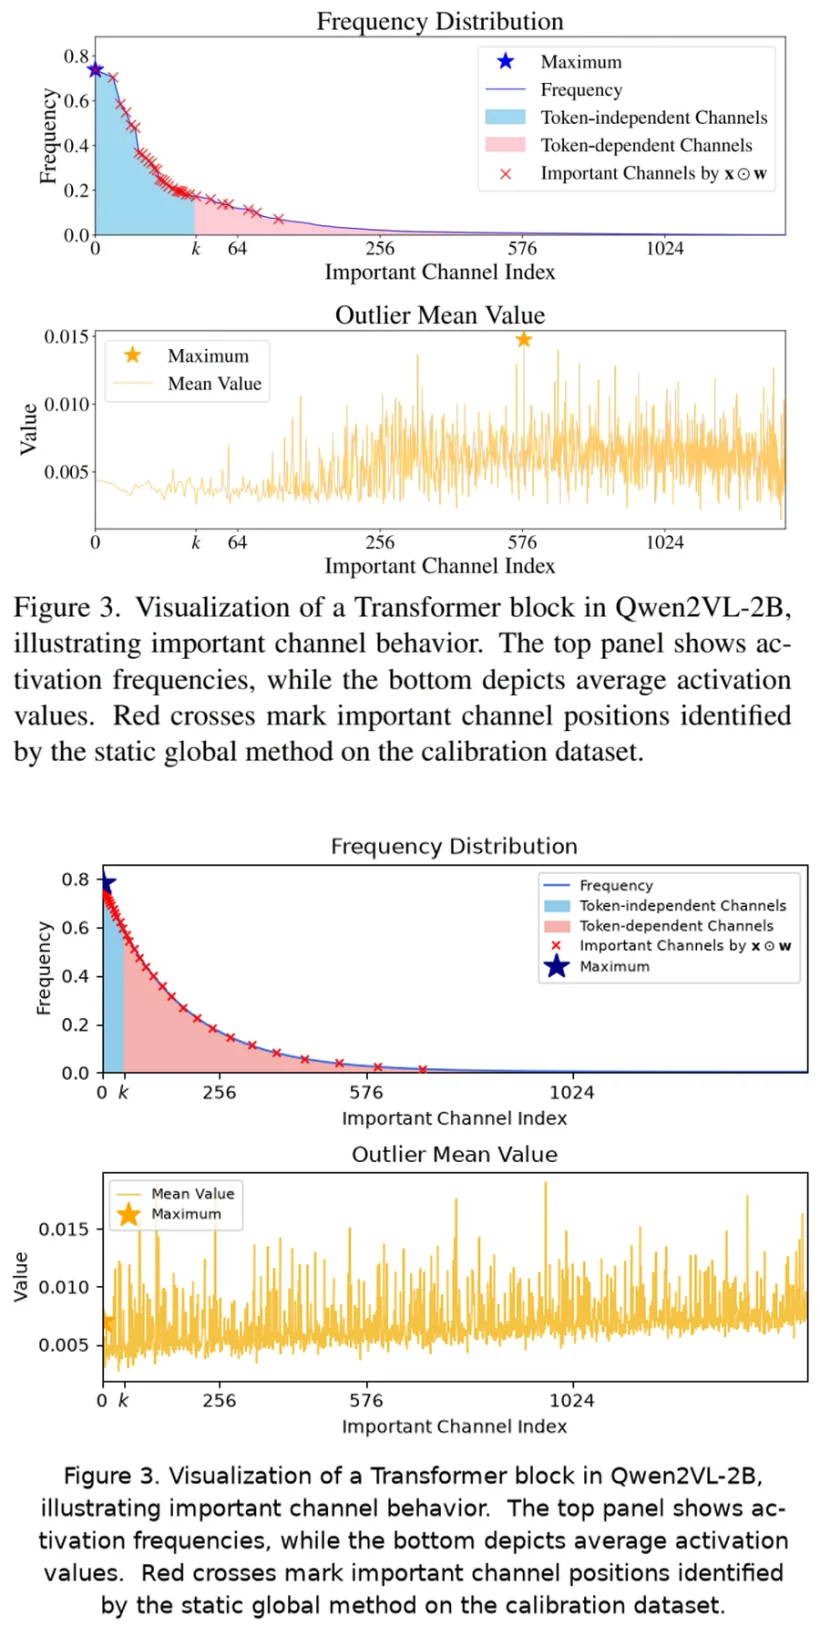
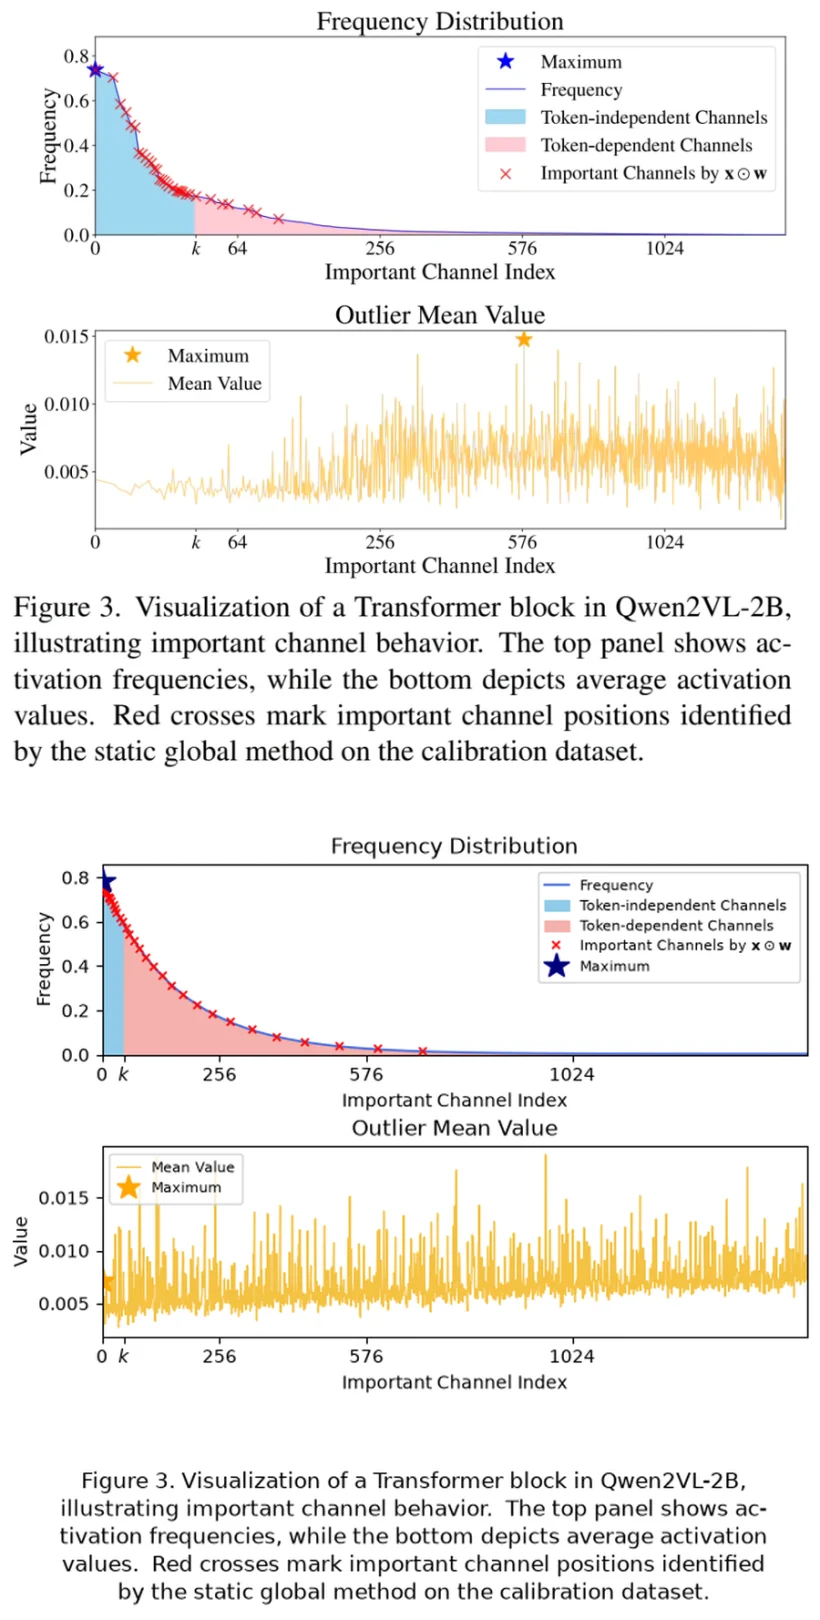
improve(replicas): 第七十一轮 —— 10 收敛到 100% + 05 占位块增强
1) 10（106% → 100%）
   逐行密度：
     原图 0.09/0.14/0.24/0.07/0.09/0.37/0.12/0.16/0.26/0.11
     修前 0.10/0.14/0.17/0.11/0.10/0.29/0.35/0.06/0.24/0.16
   第 6 行 0.35 vs 0.12 —— caption 起始位置偏高。
   - fig.text y -0.005 → -0.025
   - caption 13 → 12pt、linespacing 1.4 → 1.3
   - figsize 6.20 → 5.95 保持 AR
   → 墨迹 100%，AR 1.03（+0.9%）

2) 05 占位块增强（修复上轮自包含改造带来的视觉回归）
   上轮为自包含改用纯 TikZ 色块，但只有 5-6 个平面矩形，
   和原图的照片质感差距大（对照图里很明显）。
   改成：黑底 + 竖向细条纹（foreach 15 条）+ 3 层同色系渐变光斑 +
   亮色高光点 + 上下暗边压边 → 有层次感。
   仍保持零外部依赖。

当前：平均 100%，9/10 在 ±15% 内

diff --git a/tools/figlab/reps_tikz.py b/tools/figlab/reps_tikz.py
@@ -70,12 +70,23 @@ def fig05() -> str:
       \begin{scope}[shift={(\k*0.12,\k*0.12)}]
         \clip[rounded corners=3pt] (0,0) rectangle (2.20,2.20);
         % 纯 TikZ 绘制的"照片感"占位（不依赖外部图片）
-        \fill[black!90] (0,0) rectangle (2.20,2.20);
-        \fill[cyan!45!black, opacity=0.55] (0.10,0.10) rectangle (1.20,1.65);
-        \fill[red!70!black, opacity=0.50] (0.95,0.35) rectangle (2.10,1.20);
-        \fill[magenta!70!black, opacity=0.40] (0.25,0.62) rectangle (0.85,1.95);
-        \fill[orange!85!black, opacity=0.55] (1.45,0.20) rectangle (2.05,0.95);
-        \fill[white, opacity=0.12] (0.15,0.15) rectangle (0.55,0.55);
+        \fill[black!92] (0,0) rectangle (2.20,2.20);
+        % 竖向细条纹（模拟画面纹理）
+        \foreach \t in {0,0.15,...,2.05}{
+          \fill[cyan!35!black, opacity=0.07] (\t,0) rectangle ++(0.07,2.20);
+        }
+        % 多层渐变光斑
+        \fill[cyan!50!black, opacity=0.32] (0.05,0.25) rectangle (1.05,1.75);
+        \fill[cyan!60!black, opacity=0.22] (0.30,0.50) rectangle (0.85,1.50);
+        \fill[red!75!black, opacity=0.38] (0.85,0.30) rectangle (1.95,1.15);
+        \fill[red!85!black, opacity=0.28] (1.15,0.55) rectangle (1.75,0.95);
+        \fill[magenta!75!black, opacity=0.30] (0.20,0.75) rectangle (0.75,1.95);
+        \fill[magenta!85!black, opacity=0.22] (0.35,1.20) rectangle (0.62,1.75);
+        \fill[orange!90!black, opacity=0.40] (1.50,0.18) rectangle (2.05,0.80);
+        \fill[yellow!80!white, opacity=0.18] (1.65,0.25) rectangle (1.95,0.55);
+        \fill[white, opacity=0.10] (0.12,0.12) rectangle (0.45,0.42);
+        \fill[black!85, opacity=0.55] (0.0,0.0) rectangle (2.20,0.18);
+        \fill[black!85, opacity=0.45] (0.0,1.95) rectangle (2.20,2.20);
       \end{scope}
       \draw[black!50, line width=1.0pt, rounded corners=3pt]
         (\k*0.11,\k*0.11) rectangle ++(2.20,2.20);
@@ -131,10 +142,15 @@ def fig05() -> str:
     \begin{scope}[shift={(\k*0.11,\k*0.11)}]
       \clip[rounded corners=2pt] (0,0) rectangle (2.15,2.15);
         % 纯 TikZ 绘制的输入叠层占位
-        \fill[black!88] (0,0) rectangle (2.15,2.15);
-        \fill[cyan!45!black, opacity=0.55] (0.12,0.12) rectangle (1.35,1.55);
-        \fill[red!70!black, opacity=0.50] (1.05,0.40) rectangle (2.02,1.10);
-        \fill[magenta!65!black, opacity=0.38] (0.30,0.70) rectangle (0.90,1.95);
+        \fill[black!92] (0,0) rectangle (2.15,2.15);
+        \foreach \t in {0,0.15,...,2.00}{
+          \fill[cyan!35!black, opacity=0.07] (\t,0) rectangle ++(0.07,2.15);
+        }
+        \fill[cyan!50!black, opacity=0.32] (0.08,0.28) rectangle (1.10,1.70);
+        \fill[red!75!black, opacity=0.36] (1.00,0.35) rectangle (2.00,1.05);
+        \fill[magenta!75!black, opacity=0.28] (0.28,0.72) rectangle (0.85,1.92);
+        \fill[orange!90!black, opacity=0.32] (1.45,0.22) rectangle (2.05,0.80);
+        \fill[black!85, opacity=0.50] (0.0,0.0) rectangle (2.15,0.16);
       \draw[black!60, line width=0.8pt, rounded corners=2pt] (0,0) rectangle (2.15,2.15);
     \end{scope}
   }

diff --git a/tools/figlab/replicas.py b/tools/figlab/replicas.py
@@ -660,7 +660,7 @@ def fig09():
 
 def fig10():
     rng = np.random.default_rng(3)
-    fig, axes = plt.subplots(2, 1, figsize=(6.4, 6.20))
+    fig, axes = plt.subplots(2, 1, figsize=(6.4, 5.95))
     n = 1536
     idx = np.arange(n)
 
@@ -706,14 +706,14 @@ def fig10():
               borderpad=0.5, labelspacing=0.35)
     ax.set_title("Outlier Mean Value", fontsize=12)
 
-    fig.text(0.5, -0.005,
+    fig.text(0.5, -0.025,
              "Figure 3. Visualization of a Transformer block in Qwen2VL-2B,\n"
              "illustrating important channel behavior.  The top panel shows ac-\n"
              "tivation frequencies, while the bottom depicts average activation\n"
              "values.  Red crosses mark important channel positions identified\n"
              "by the static global method on the calibration dataset.",
-             ha="center", va="bottom", fontsize=13, linespacing=1.4)
-    fig.subplots_adjust(top=0.95, bottom=0.30, left=0.12, right=0.98, hspace=0.48)
+             ha="center", va="bottom", fontsize=12, linespacing=1.3)
+    fig.subplots_adjust(top=0.95, bottom=0.33, left=0.12, right=0.98, hspace=0.48)
     return _save(fig, "rep-10-frequency-outlier")
 
 
